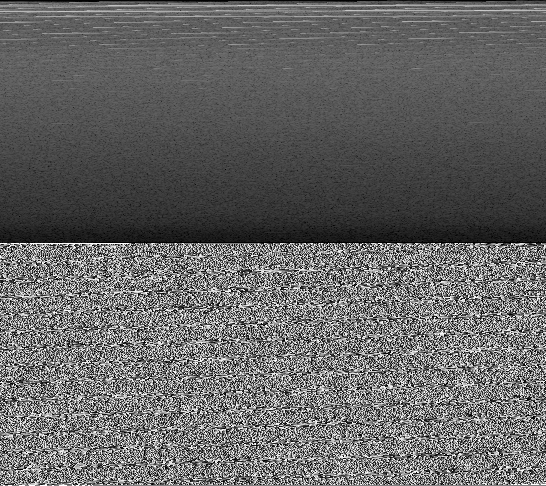
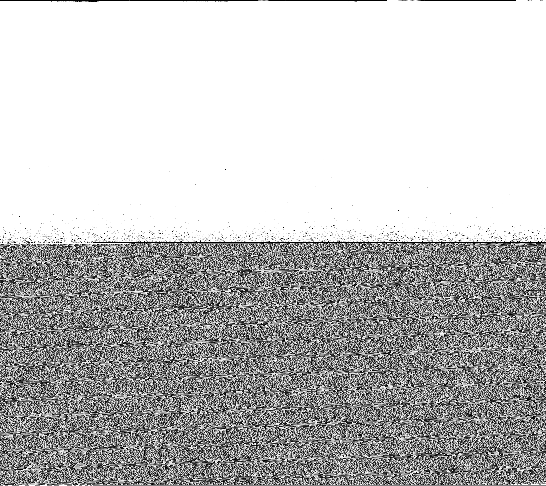
Renamed noise reduction to noise

diff --git a/Ny_forbedret_version/Interface.py b/Ny_forbedret_version/Interface.py
@@ -318,7 +318,6 @@ def createequalizationframe():
         destroynotchframe()
 
 def createsharpframe():
-    global SharpImageFinal
 
     EmptyLabelProcess.destroy()
 
@@ -364,6 +363,9 @@ def createsharpframe():
 
     Applybtn = Button(SharpeningFrame, text="Apply", command=getvalues)
     Applybtn.grid(row=4, column=0)
+
+# def createsmoothframe():
+
 
 def destroybandpassframe():
     global BandpassFrame
@@ -412,7 +414,7 @@ EmptyLabelProcess.pack(side=TOP)
 BtnFrameProces = Frame(ProcessesFrame, pady=5)
 BtnFrameProces.pack(side=BOTTOM)
 
-NoiseReduc = Button(BtnFrameProces, text="Noise reduction filter")
+NoiseReduc = Button(BtnFrameProces, text="Noise filter")
 NoiseReduc.grid(row=0, column=0, padx=5)
 
 Sharp = Button(BtnFrameProces, text="Sharpening filter", command=createsharpframe)
